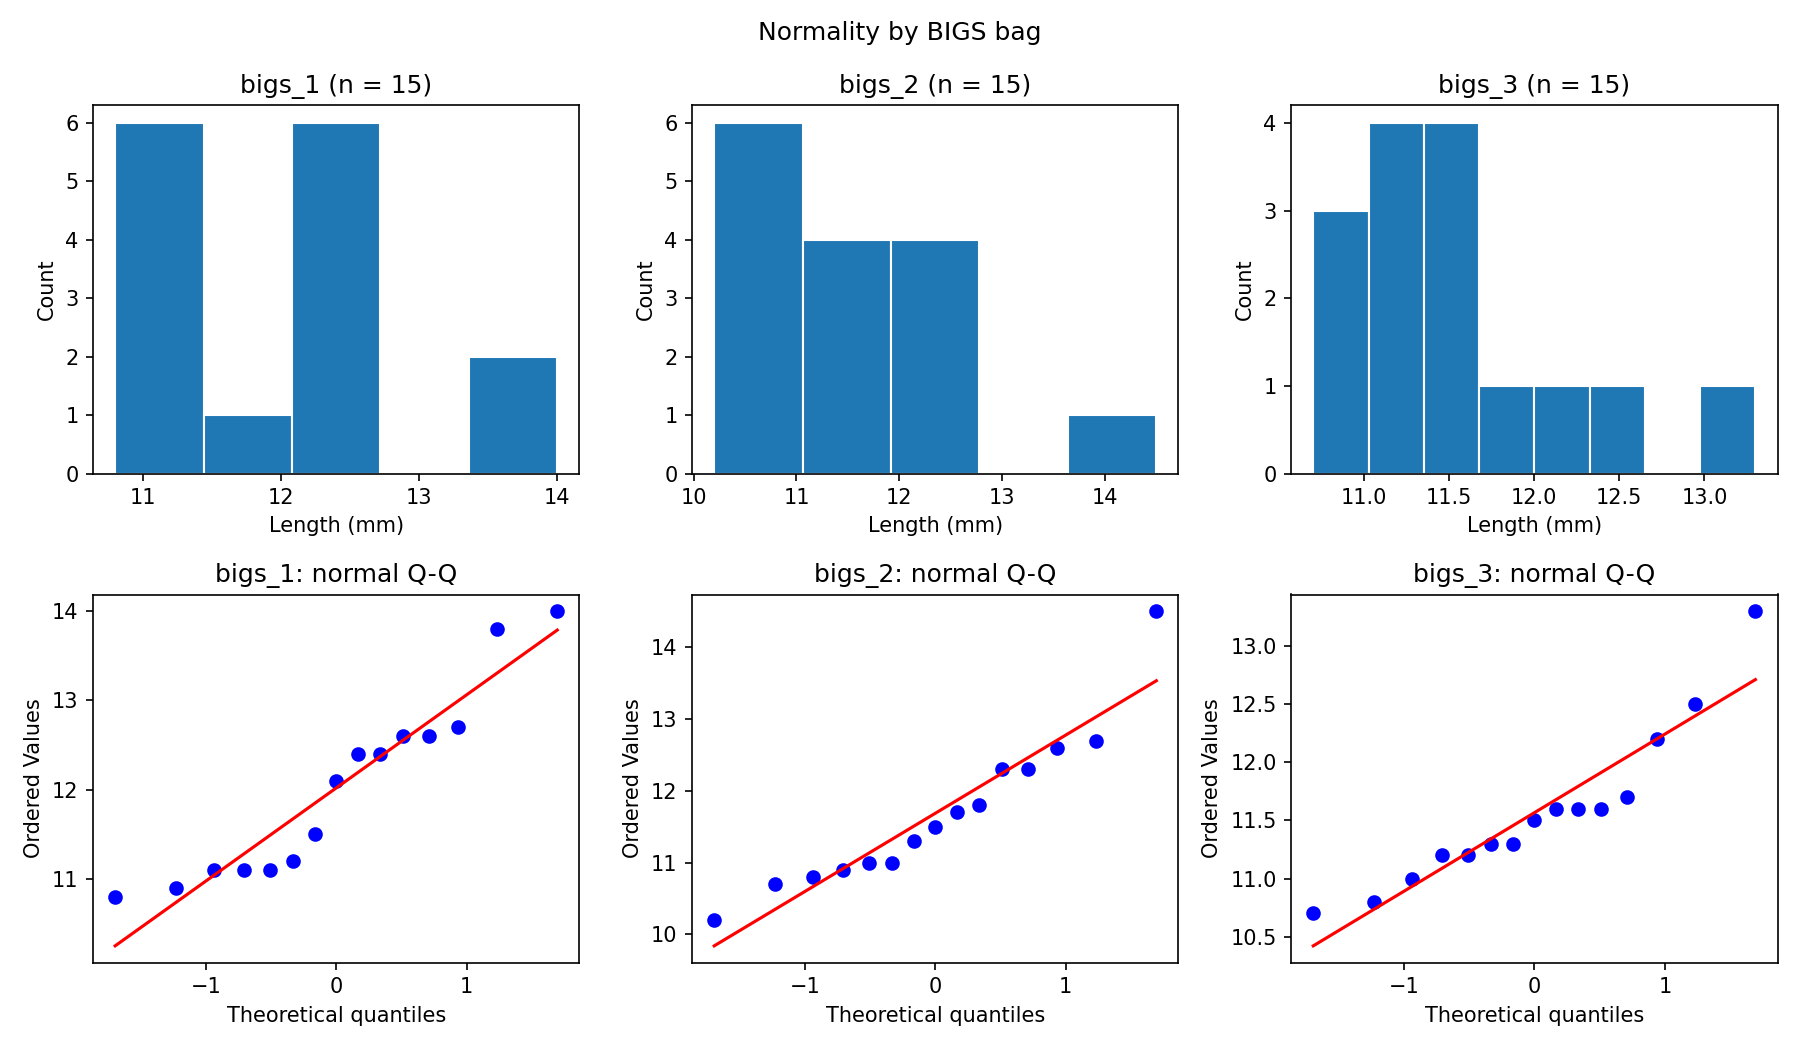
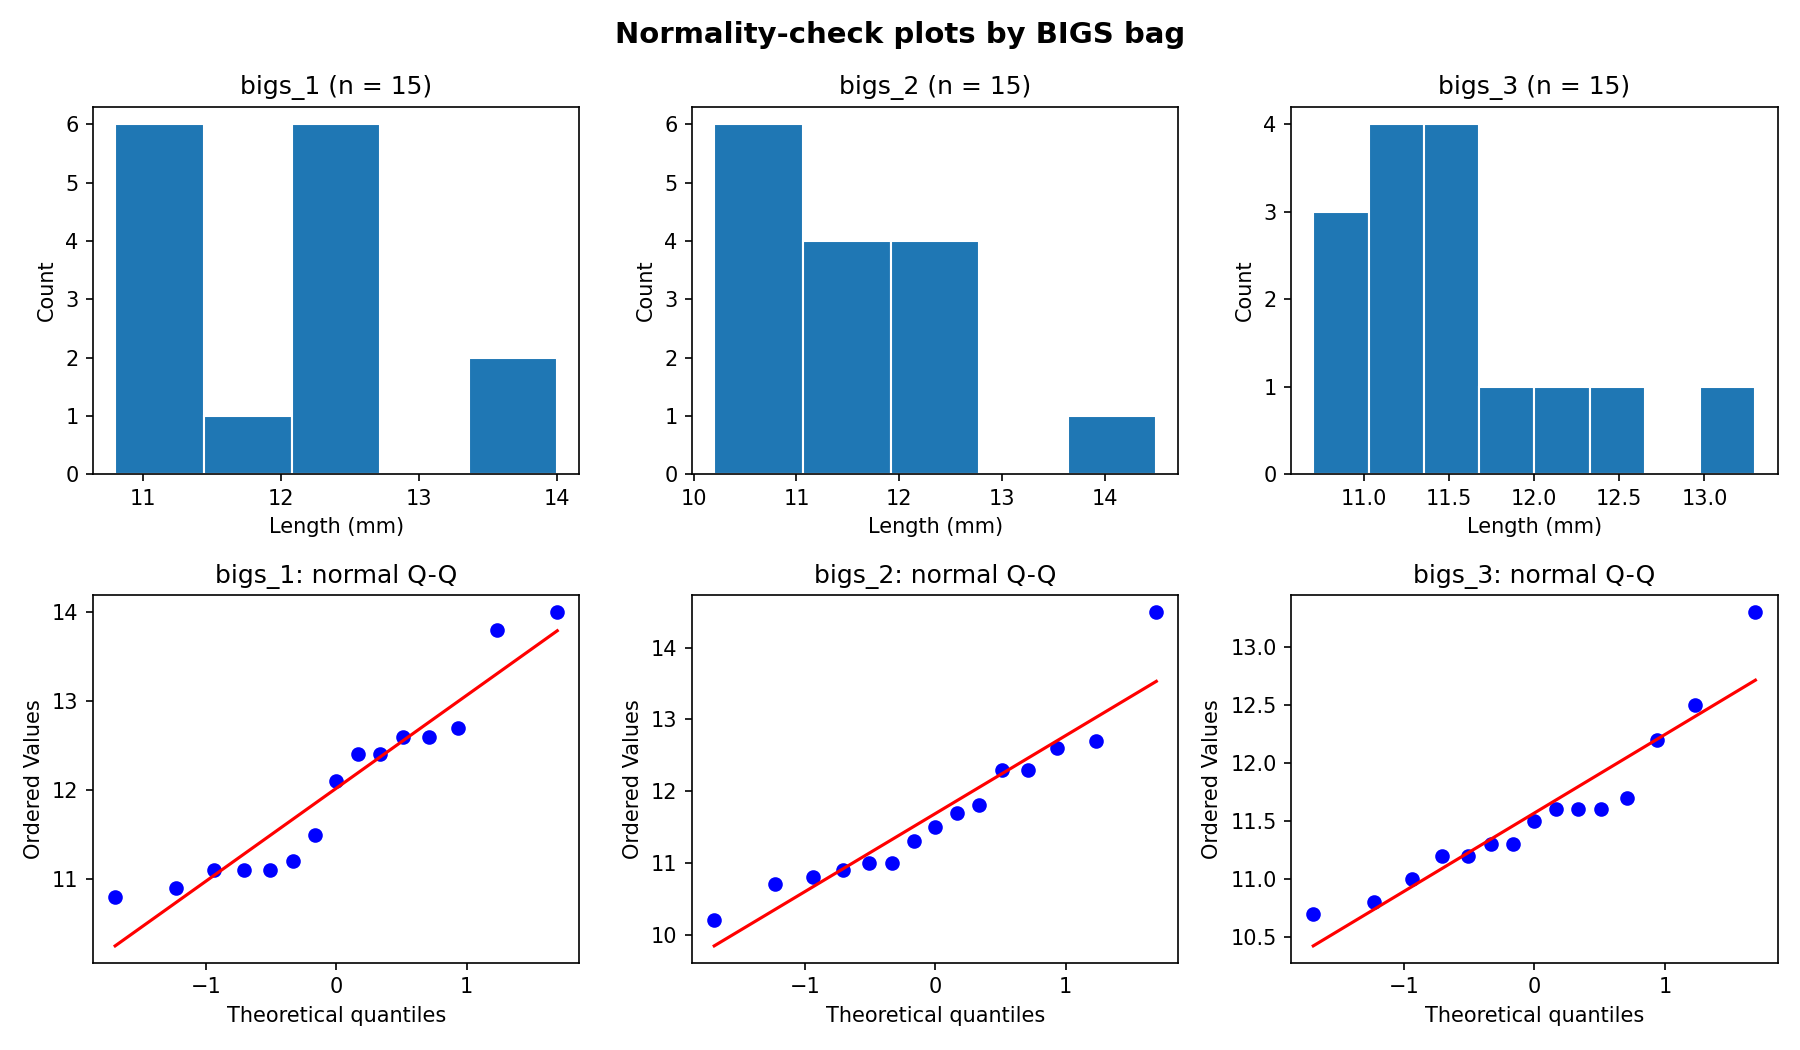
fix visualization of assumption check results

diff --git a/src/check_assumptions.py b/src/check_assumptions.py
@@ -98,12 +98,12 @@ def plot_normality(groups, path, title):
     for i, (name, x) in enumerate(groups.items()):
         hist_ax, qq_ax = axes[0, i], axes[1, i]
         hist_ax.hist(x, bins="auto", edgecolor="white")
-        hist_ax.set_title(f"{name} (n = {len(x)})")
-        hist_ax.set_xlabel("Length (mm)")
-        hist_ax.set_ylabel("Count")
+        hist_ax.set_title(f"{name} (n = {len(x)})", fontsize=12)
+        hist_ax.set_xlabel("Length (mm)", fontsize=10)
+        hist_ax.set_ylabel("Count", fontsize=10)
         stats.probplot(x, dist="norm", plot=qq_ax)
-        qq_ax.set_title(f"{name}: normal Q-Q")
-    fig.suptitle(title)
+        qq_ax.set_title(f"{name}: normal Q-Q", fontsize=12)
+    fig.suptitle(title, fontsize=14, fontweight='bold')
     fig.tight_layout()
     fig.savefig(path, dpi=150)
     plt.close(fig)
@@ -136,8 +136,8 @@ def main():
     print(shapiro_table(products).round(4).to_string(index=False))
     print("BIGS bag level:")
     print(shapiro_table(bags).round(4).to_string(index=False))
-    plot_normality(products, FIG_DIR / "normality_product.png", "Normality by product")
-    plot_normality(bags, FIG_DIR / "normality_bigs_bags.png", "Normality by BIGS bag")
+    plot_normality(products, FIG_DIR / "normality_product.png", "Normality-check plots by product")
+    plot_normality(bags, FIG_DIR / "normality_bigs_bags.png", "Normality-check plots by BIGS bag")
 
     print(f"\nLevene's test, median-centered (H0: equal variances; alpha = {ALPHA})")
     levene = pd.DataFrame([
